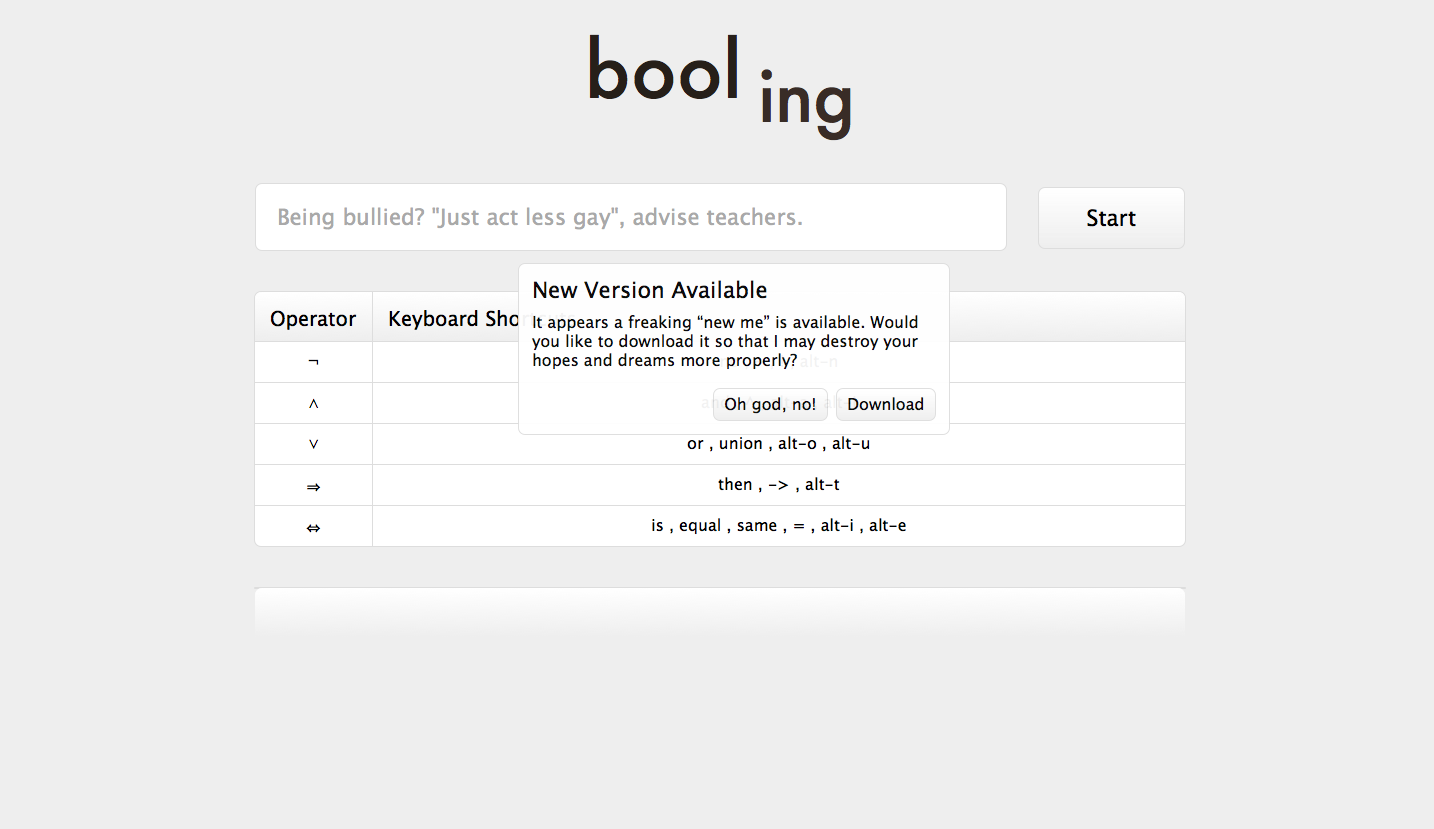
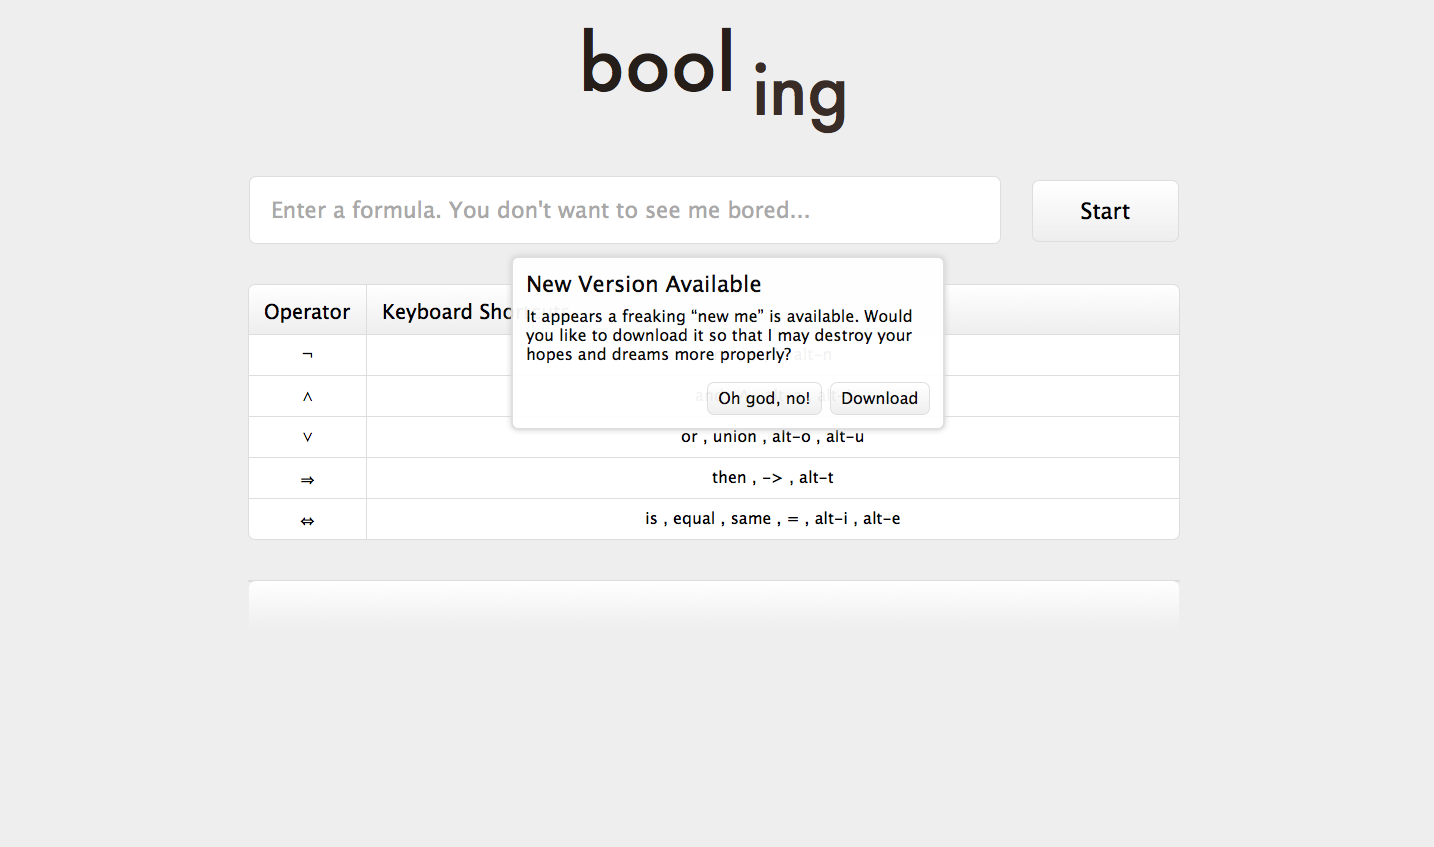
Added a shadow to the alert popups

diff --git a/Style/Main.css b/Style/Main.css
@@ -149,18 +149,22 @@ header h2 {
         padding: 12px 10px 0 12px; }
 
 .alert {
+  -webkit-box-shadow: 0 0 7px #cccccc;
+  -moz-box-shadow: 0 0 7px #cccccc;
+  box-shadow: 0 0 7px #cccccc;
   -moz-user-select: none;
   -khtml-user-select: none;
   -webkit-user-select: none;
   user-select: none;
-  border: 1px solid #dddddd;
+  border: 2px solid #dddddd;
   -webkit-background-clip: padding-box;
   -webkit-border-radius: 7px 7px 7px 7px;
   -moz-border-radius: 7px 7px 7px 7px;
   border-radius: 7px 7px 7px 7px;
-  margin-top: 120px;
-  margin-left: -202px;
+  margin-top: 125px;
+  margin-left: -203px;
   width: 404px;
+  /*display: none */
   opacity: 0.95;
   background-color: white;
   position: absolute;
@@ -175,6 +179,8 @@ header h2 {
     line-height: 1.2em; }
   .alert .button {
     float: right;
-    /*background: #EEE */ }
-    .alert .button:active p {
-      color: black; }
+    background: #eeeeee; }
+    .alert .button:active {
+      background: #dddddd; }
+      .alert .button:active p {
+        color: black; }

diff --git a/Style/Alerts.sass b/Style/Alerts.sass
@@ -1,13 +1,16 @@
 $alertWidth: 404px
+$alertBorder: 2px
 
 .alert
+	@include shadow(0, 0, 7px, #CCC)
 	@include unselectable
-	@include border
+	@include border(border, $alertBorder)
 	@include round
 	
-	margin-top: 120px
-	margin-left: - ($alertWidth / 2)
+	margin-top: 125px
+	margin-left: - ($alertWidth + $alertBorder) / 2
 	width: $alertWidth
+	/*display: none
 	
 	opacity: 0.95
 	background-color: #FFF
@@ -25,7 +28,9 @@ $alertWidth: 404px
 		
 	.button
 		float: right
-		/*background: #EEE
+		background: #EEE
 		
-		&:active p
-			color: #000
+		&:active
+			background: #DDD
+			p
+				color: #000

diff --git a/Style/Utility.sass b/Style/Utility.sass
@@ -16,6 +16,11 @@
 	background-image: linear-gradient(bottom, $start 0%, $end 100%)
 	background-color: mix($start, $end)
 	
+@mixin shadow($x, $y, $size, $color)
+	-webkit-box-shadow: $x $y $size $color
+	-moz-box-shadow: $x $y $size $color
+	box-shadow: $x $y $size $color
+	
 @mixin unselectable
 	-moz-user-select: none
 	-khtml-user-select: none

diff --git a/Style/Main.sass b/Style/Main.sass
@@ -51,8 +51,8 @@ header
 @mixin gradient
 	@include linear-gradient(#EEE, #FFF)
 
-@mixin border($attr: border)
-	#{$attr}: 1px solid #DDD
+@mixin border($attr: border, $size: 1px)
+	#{$attr}: $size solid #DDD
 	
 .green
 	color: green
